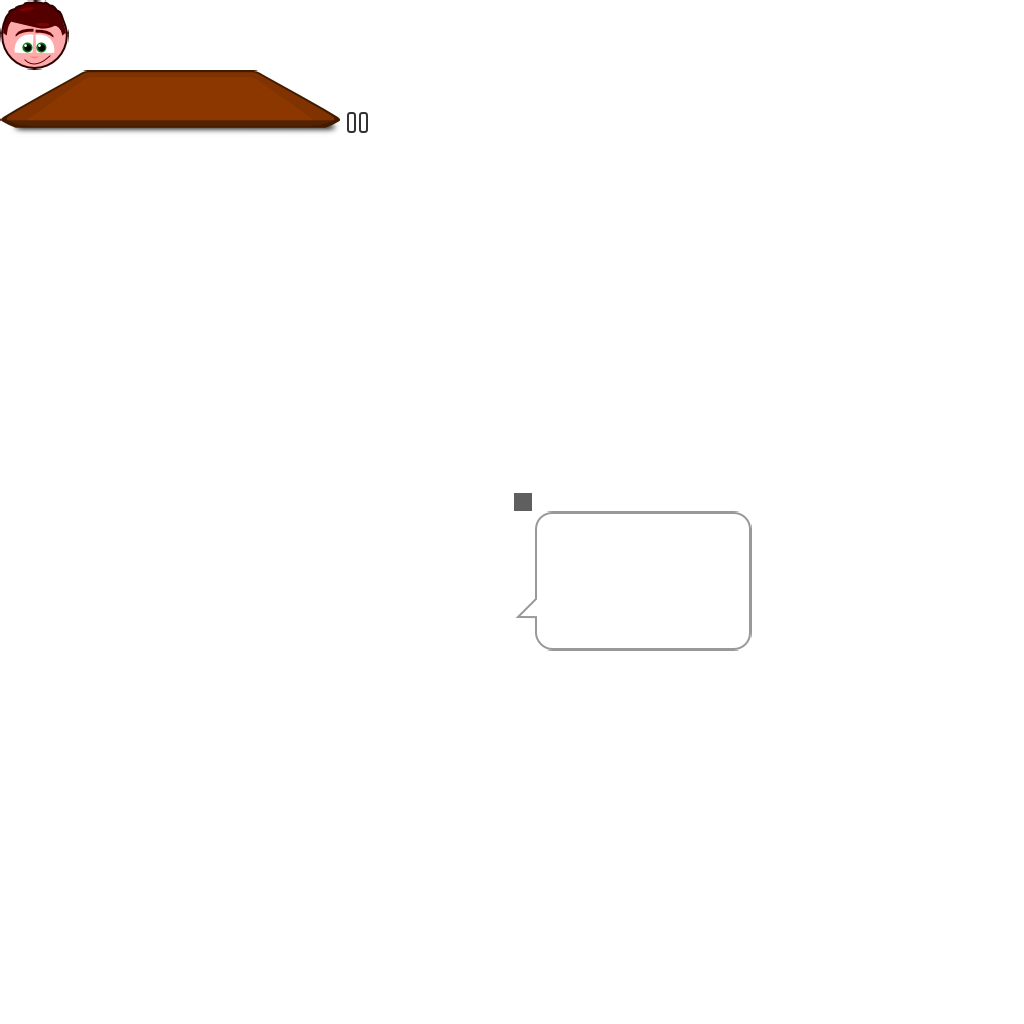
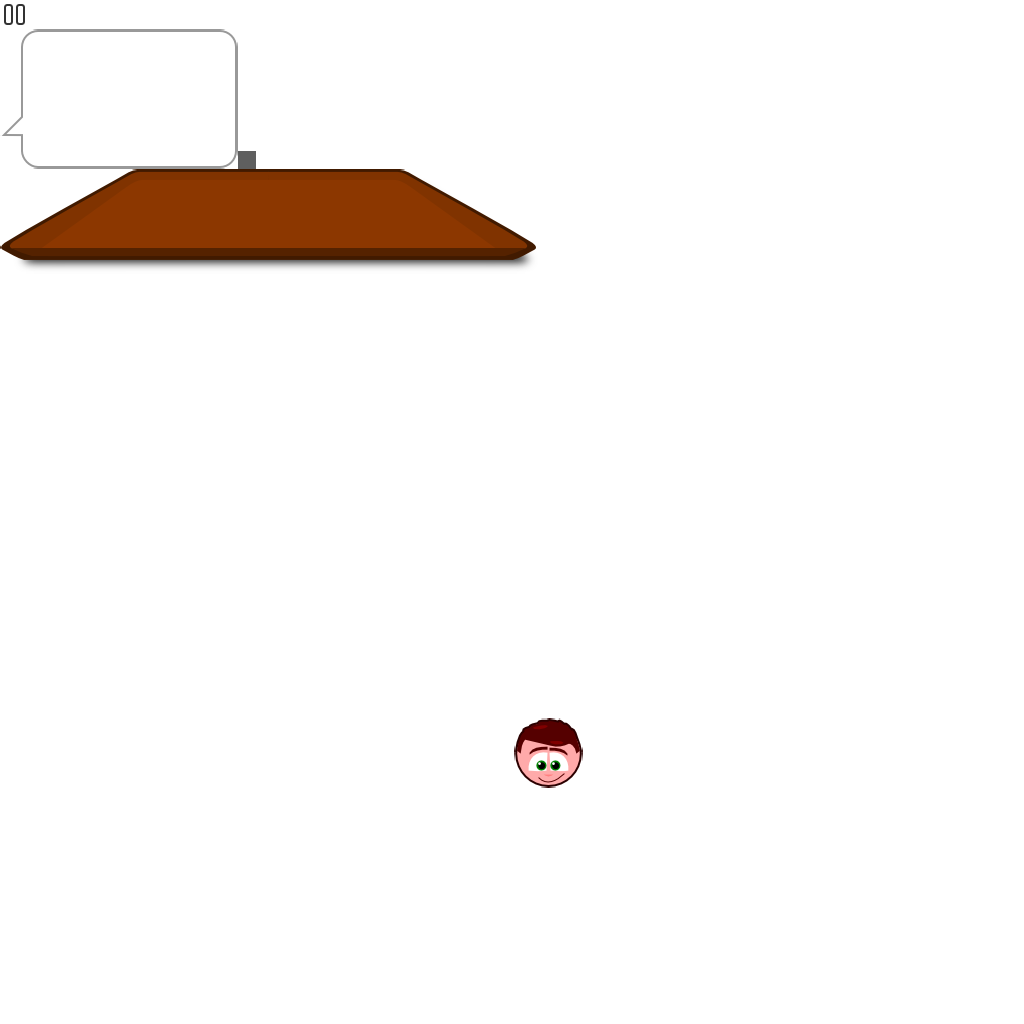
Add platter

diff --git a/burgerparty/src/com/agateau/burgerparty/view/MealExtraView.java b/burgerparty/src/com/agateau/burgerparty/view/MealExtraView.java
@@ -9,7 +9,6 @@ import com.agateau.burgerparty.utils.Signal0;
 import com.agateau.burgerparty.utils.UiUtils;
 import com.badlogic.gdx.graphics.g2d.TextureAtlas;
 import com.badlogic.gdx.graphics.g2d.TextureRegion;
-import com.badlogic.gdx.math.MathUtils;
 import com.badlogic.gdx.scenes.scene2d.Action;
 import com.badlogic.gdx.scenes.scene2d.Group;
 import com.badlogic.gdx.scenes.scene2d.actions.Actions;
@@ -17,6 +16,13 @@ import com.badlogic.gdx.scenes.scene2d.ui.Image;
 import com.badlogic.gdx.utils.Array;
 
 public class MealExtraView extends Group {
+	private static final float ADD_ACTION_HEIGHT = 100;
+
+	private static final float ITEM0_X = 0;
+	private static final float ITEM0_Y = 0;
+	private static final float ITEM1_X = -30;
+	private static final float ITEM1_Y = 20;
+
 	public MealExtraView(MealExtra mealExtra, TextureAtlas atlas) {
 		mMealExtra = mealExtra;
 		mAtlas = atlas;
@@ -52,6 +58,12 @@ public class MealExtraView extends Group {
 
 	public void addItem(MealItem item) {
 		Image image = addItemInternal(item);
+		if (mImages.size == 1) {
+			image.setPosition(ITEM0_X, ITEM0_Y);
+		} else {
+			image.setPosition(ITEM1_X, ITEM1_Y);
+			image.setZIndex(0);
+		}
 		AnimScript anim = item.getAnimScript();
 		Action animAction = anim.createAction(ADD_ACTION_HEIGHT, ADD_ACTION_HEIGHT, MealView.ADD_ACTION_DURATION);
 		Action addItemAction = Actions.run(new AddItemRunnable(item));
@@ -65,7 +77,7 @@ public class MealExtraView extends Group {
 		float posX = 0;
 		for(MealItem item: mMealExtra.getItems()) {
 			Image image = addItemInternal(item);
-			image.setX(posX);
+			image.setPosition(posX, 0);
 			posX += image.getWidth();
 		}
 		updateGeometry();
@@ -99,7 +111,6 @@ public class MealExtraView extends Group {
 		assert(region != null);
 		Image image = new Image(region);
 		mImages.add(image);
-		image.setPosition(MathUtils.ceil(getWidth()), 0);
 		addActor(image);
 		return image;
 	}
@@ -108,6 +119,4 @@ public class MealExtraView extends Group {
 	private TextureAtlas mAtlas;
 	private HashSet<Object> mHandlers = new HashSet<Object>();
 	private Array<Image> mImages = new Array<Image>();
-
-	private static final float ADD_ACTION_HEIGHT = 100;
 }

diff --git a/burgerparty/src/com/agateau/burgerparty/view/MealView.java b/burgerparty/src/com/agateau/burgerparty/view/MealView.java
@@ -8,16 +8,25 @@ import com.agateau.burgerparty.utils.ResizeToFitChildren;
 import com.agateau.burgerparty.utils.UiUtils;
 import com.badlogic.gdx.graphics.g2d.TextureAtlas;
 import com.badlogic.gdx.scenes.scene2d.Group;
+import com.badlogic.gdx.scenes.scene2d.ui.Image;
 
 public class MealView extends Group implements ResizeToFitChildren {
 	public static final float ADD_ACTION_DURATION = 0.2f;
 	public static final float TRASH_ACTION_DURATION = 0.5f;
 
-	public MealView(Burger burger, MealExtra mealExtra, TextureAtlas atlas) {
-		mBurgerView = new BurgerView(burger, atlas);
-		addActor(mBurgerView);
+	private static final float PLATTER_X = -40f;
+	private static final float PLATTER_Y = -30f;
+
+	public MealView(Burger burger, MealExtra mealExtra, TextureAtlas atlas, boolean withPlatter) {
+		if (withPlatter) {
+			Image platter = new Image(atlas.findRegion("platter"));
+			platter.setPosition(PLATTER_X, PLATTER_Y);
+			addActor(platter);
+		}
 		mMealExtraView = new MealExtraView(mealExtra, atlas);
 		addActor(mMealExtraView);
+		mBurgerView = new BurgerView(burger, atlas);
+		addActor(mBurgerView);
 	}
 
 	public BurgerView getBurgerView() {

diff --git a/burgerparty/src/com/agateau/burgerparty/view/WorldView.java b/burgerparty/src/com/agateau/burgerparty/view/WorldView.java
@@ -194,7 +194,7 @@ public class WorldView extends AnchorGroup {
 	private void setupTargetMealView() {
 		mBubble = new Bubble(mAtlas);
 		addActor(mBubble);
-		mTargetMealView = new MealView(mWorld.getTargetBurger(), mWorld.getTargetMealExtra(), mAtlas);
+		mTargetMealView = new MealView(mWorld.getTargetBurger(), mWorld.getTargetMealExtra(), mAtlas, false);
 		mTargetMealView.getBurgerView().setPadding(16);
 		mTargetMealView.setScale(0.5f, 0.5f);
 		mBubble.setChild(mTargetMealView);
@@ -215,7 +215,7 @@ public class WorldView extends AnchorGroup {
 	}
 
 	private void setupMealView() {
-		mMealView = new MealView(mWorld.getBurger(), mWorld.getMealExtra(), mAtlas);
+		mMealView = new MealView(mWorld.getBurger(), mWorld.getMealExtra(), mAtlas, true);
 		// We add an anchor rule in this setup method because it is called
 		// for each customer
 		addRule(mMealView, Anchor.BOTTOM_LEFT, mWorkbench, Anchor.BOTTOM_CENTER, -6, 1);
